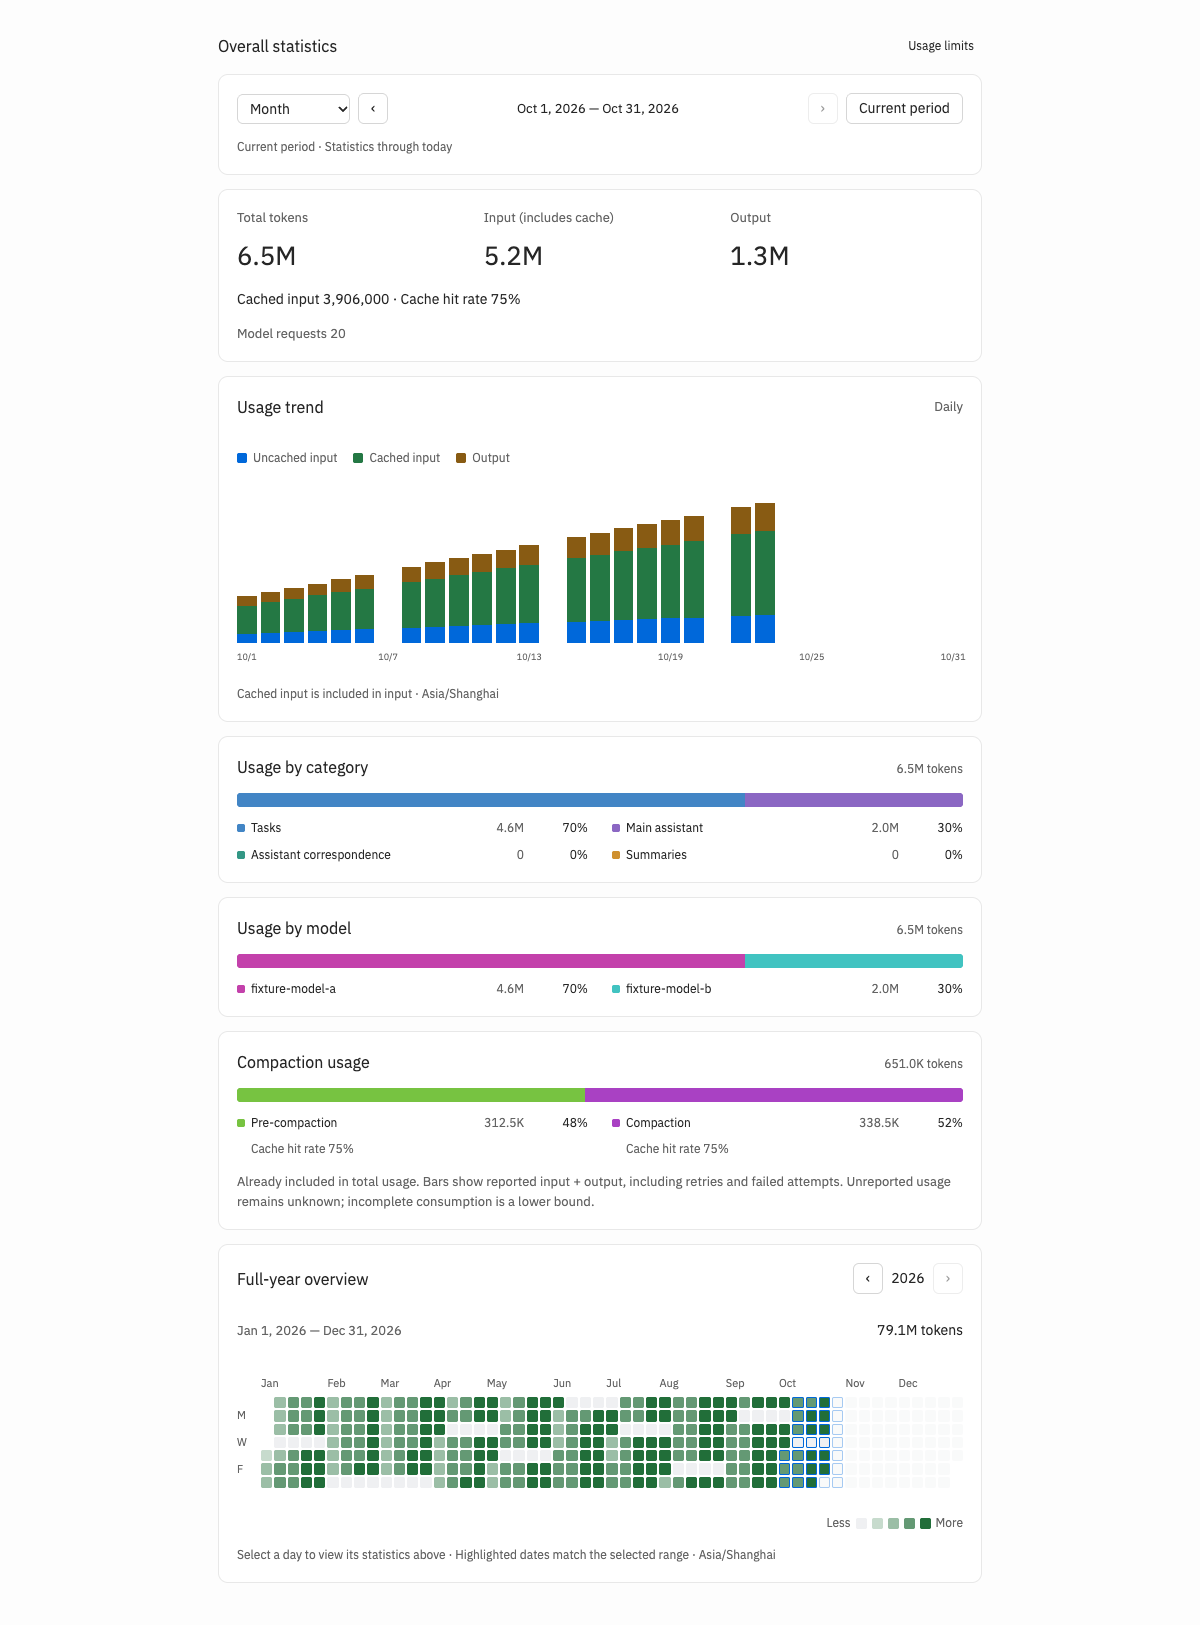
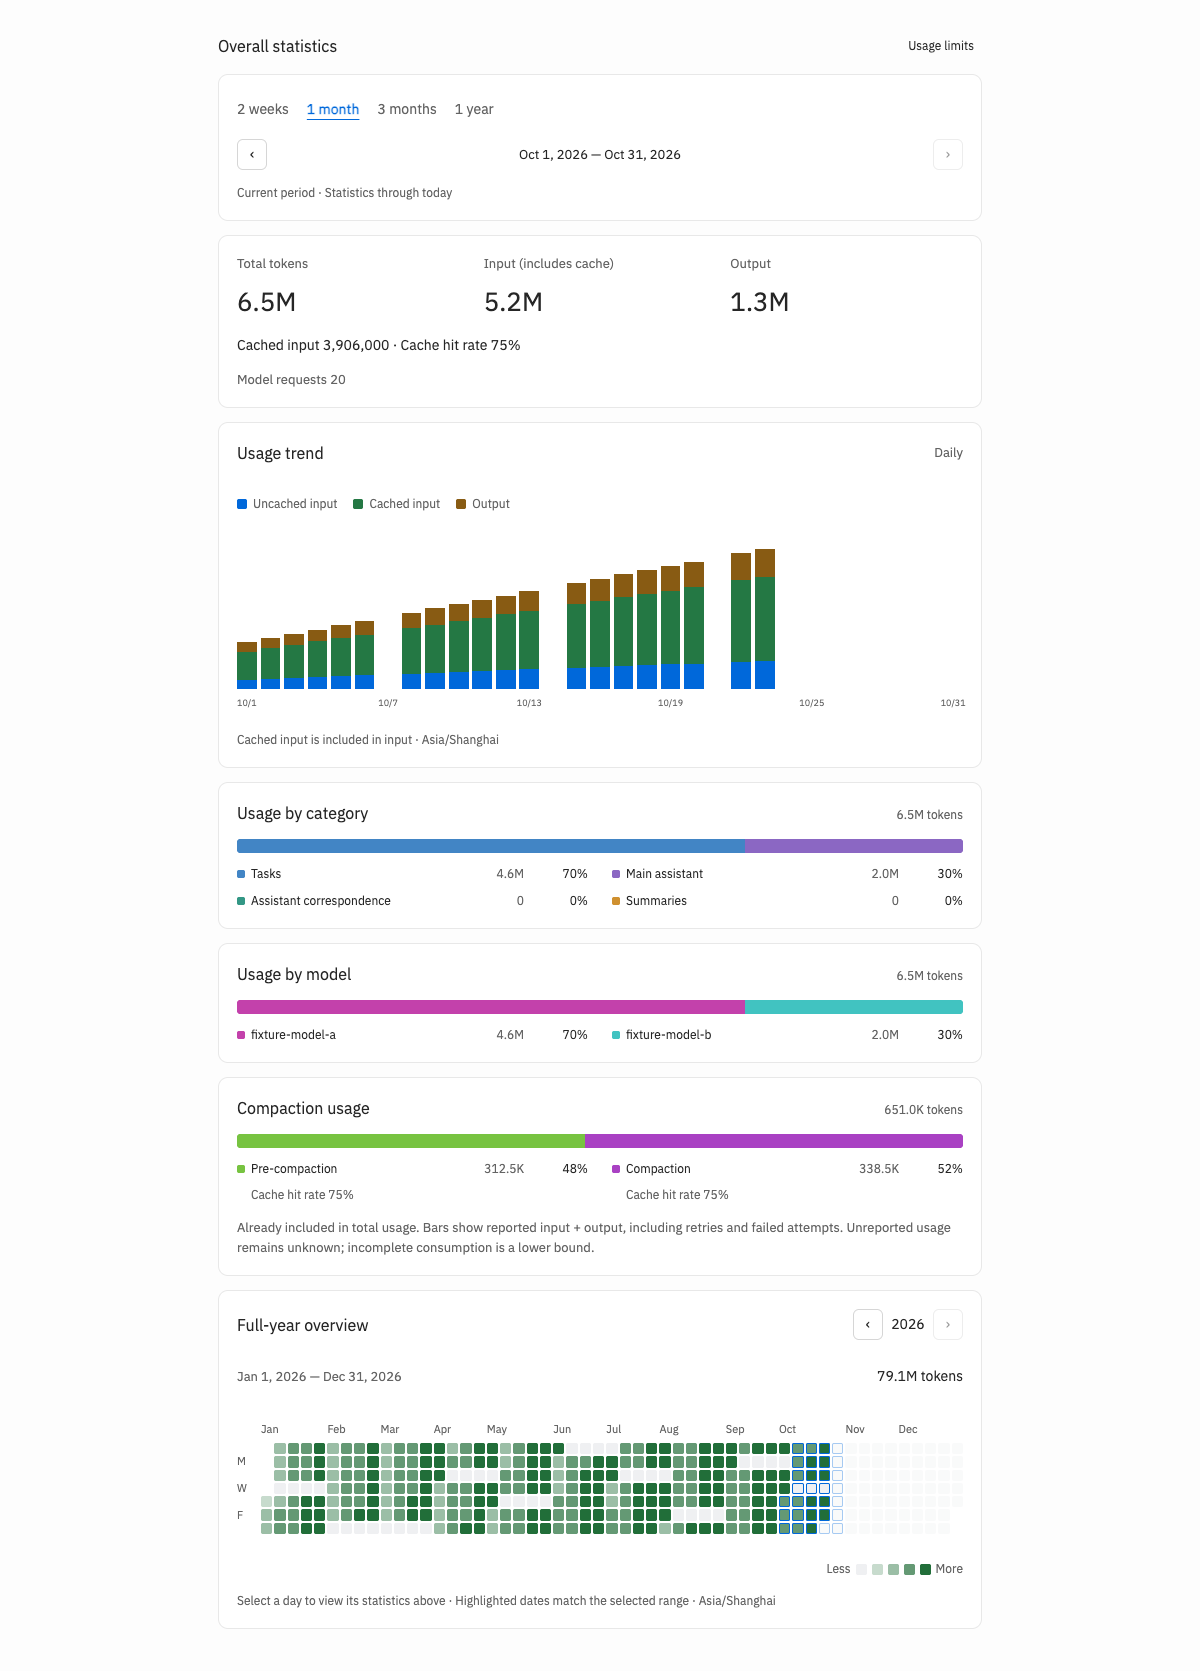
Simplify usage date selection to four period links

diff --git a/web/src/styles.css b/web/src/styles.css
@@ -320,12 +320,16 @@ input[type='checkbox'].field-input { width: 18px; height: 18px; min-height: 18px
 .usage-chart-heading h2,.usage-list-heading h2 { margin: 0; font-size: 16px; font-weight: 400; }
 .usage-value { cursor: help; }
 .usage-lifetime-heading { margin: 24px 0 14px; font-size: 16px; font-weight: 400; }
-.usage-range-toolbar,.usage-calendar-controls { display: flex; align-items: center; gap: 8px; flex-wrap: wrap; }
-.usage-range-label { flex: 1; text-align: center; font-size: 13px; font-weight: 400; font-variant-numeric: tabular-nums; }
-.usage-range .usage-period-select { width: auto; max-width: 100%; }.usage-range .hint { font-size: 12px; }
-.usage-custom-range { display: flex; align-items: end; gap: 12px; flex-wrap: wrap; }.usage-custom-range label { flex: 1; min-width: 120px; }.usage-custom-range label span { display: block; margin-bottom: 6px; }.usage-custom-range .inline-error { flex-basis: 100%; margin: 0; }
+.usage-calendar-controls { display: flex; align-items: center; gap: 8px; flex-wrap: wrap; }
+.usage-range-toolbar { display: grid; grid-template-columns: auto minmax(0,1fr) auto; align-items: center; gap: 8px; }
+.usage-range-label { text-align: center; font-size: 13px; font-weight: 400; font-variant-numeric: tabular-nums; }
+.usage-period-links { display: flex; align-items: center; flex-wrap: wrap; gap: 2px 18px; }
+.usage-period-link.control { border: 0; padding: 4px 0; background: transparent; color: var(--muted); min-height: 32px; text-underline-offset: 5px; }
+.usage-period-link.control:hover,.usage-period-link.control.selected { color: var(--primary); text-decoration: underline; }.usage-period-link.control.selected { font-weight: 600; }
+.usage-period-link.control:focus-visible { outline: 2px solid var(--primary); outline-offset: 3px; }.usage-range .hint { font-size: 12px; }
+@media(max-width:719px),(pointer:coarse) { .usage-period-link.control { min-height: 44px; } }
 .usage-day[aria-pressed='true'] { outline: 1px solid var(--primary); outline-offset: -1px; }.usage-day:disabled { opacity: .35; cursor: default; }
-@media(max-width:600px) { .usage-range-label { order: 5; flex-basis: 100%; }.usage-range-toolbar>.control:last-child { margin-left: auto; }.usage-calendar-controls { gap: 4px; } }
+@media(max-width:600px) { .usage-calendar-controls { gap: 4px; } }
 .usage-chart { display: flex; align-items: end; gap: min(4px,calc(120px / var(--usage-bars))); height: 166px; margin: 16px 0 8px; }
 .chart-column { display: flex; flex: 1; min-width: 0; flex-direction: column; justify-content: end; height: 100%; gap: 8px; text-align: center; border-radius: 3px; cursor: help; }
 .chart-column:hover,.chart-column:focus-visible { background: var(--navigation); }.chart-column:focus-visible { outline: 2px solid var(--primary); outline-offset: 2px; }

diff --git a/docs/token-usage.md b/docs/token-usage.md
@@ -1,12 +1,16 @@
 # Token usage and allowances
 
 Usage has one date range for the total card, trend, category shares, model shares
-and compaction usage. Week (Monday–Sunday), month and year use natural calendar
-boundaries with previous/next navigation. The current month is the default;
-recent 30 days and inclusive custom dates are also available. The selection
-survives navigation and language changes within the window. Current periods keep
-all their dates, including zero-usage/future dates, and mark statistics through
-today. Dates follow the current system IANA zone.
+and compaction usage. Four directly clickable options select 2 weeks, 1 month,
+3 months or 1 year; there is no dropdown or custom date form. Two weeks cover
+last week and this week (Monday–Sunday); month, quarter and year select the
+current natural calendar period. Previous/next moves a whole selected period
+without overlapping dates. Selecting an option again returns to its current
+period. The current month is the default. The active timescale stays highlighted
+when navigating previous periods. Selection survives navigation and language
+changes within the window. Current periods retain all dates, including zero-usage
+and future dates, and mark statistics through today. Dates follow the current
+system IANA zone. Clicking the full-year calendar still selects an individual day.
 
 The stacked trend separates uncached input, cached input and output. Intervals of
 up to 31 days use daily bars; longer intervals up to 180 days use Monday-based
